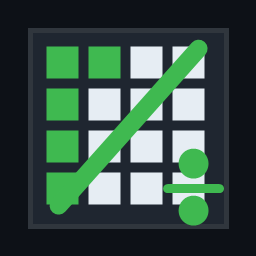
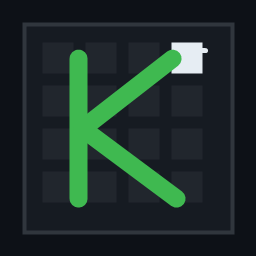
feat: add desktop undo find freeze workflows

diff --git a/src/KHZ.Sheet.Desktop/MainWindow.xaml b/src/KHZ.Sheet.Desktop/MainWindow.xaml
@@ -7,6 +7,7 @@
         MinWidth="1000"
         MinHeight="650"
         Icon="Assets/khz-sheet.ico"
+        PreviewKeyDown="MainWindow_PreviewKeyDown"
         WindowStartupLocation="CenterScreen">
     <Grid>
         <Grid.RowDefinitions>
@@ -69,6 +70,13 @@
                 <Button Content="Open CSV" Click="OpenCsv_Click"/>
                 <Button Content="Save CSV" Click="SaveCsv_Click"/>
                 <Button Content="Export XLSX" Click="ExportXlsx_Click"/>
+                <Separator Width="12" Opacity="0"/>
+                <Button Content="Undo" Click="Undo_Click" ToolTip="Ctrl+Z"/>
+                <Button Content="Redo" Click="Redo_Click" ToolTip="Ctrl+Y"/>
+                <Button Content="Freeze A" Click="FreezeFirstColumn_Click"/>
+                <Separator Width="12" Opacity="0"/>
+                <TextBox x:Name="FindBox" Width="170" Margin="0,0,6,0" ToolTip="Find in cell inputs · Ctrl+F"/>
+                <Button Content="Find Next" Click="FindNext_Click"/>
                 <Separator Width="12" Opacity="0"/>
                 <Button Content="Recalculate" Click="Recalculate_Click"/>
                 <Button Content="Verify Proof" Click="Verify_Click" Style="{StaticResource AccentButton}"/>

diff --git a/src/KHZ.Sheet.Desktop/MainWindow.xaml.cs b/src/KHZ.Sheet.Desktop/MainWindow.xaml.cs
@@ -218,6 +218,19 @@ public partial class MainWindow : Window
         }
     }
 
+    private void Undo_Click(object sender, RoutedEventArgs e) => UndoCurrentSheet();
+
+    private void Redo_Click(object sender, RoutedEventArgs e) => RedoCurrentSheet();
+
+    private void FreezeFirstColumn_Click(object sender, RoutedEventArgs e)
+    {
+        if (SheetGrid.Columns.Count == 0) return;
+        SheetGrid.FrozenColumnCount = SheetGrid.FrozenColumnCount == 0 ? 1 : 0;
+        SetStatus(SheetGrid.FrozenColumnCount == 0 ? "column A unfrozen" : "column A frozen");
+    }
+
+    private void FindNext_Click(object sender, RoutedEventArgs e) => FindNextInput();
+
     private void ApplyFormula_Click(object sender, RoutedEventArgs e)
     {
         CommitFormulaBar();
@@ -322,6 +335,35 @@ public partial class MainWindow : Window
             }));
     }
 
+    private void MainWindow_PreviewKeyDown(object sender, KeyEventArgs e)
+    {
+        if (Keyboard.Modifiers == ModifierKeys.Control && e.Key == Key.F)
+        {
+            e.Handled = true;
+            FindBox.Focus();
+            FindBox.SelectAll();
+            return;
+        }
+
+        if (Keyboard.FocusedElement is TextBox)
+        {
+            return;
+        }
+
+        if (Keyboard.Modifiers == ModifierKeys.Control && e.Key == Key.Z)
+        {
+            e.Handled = true;
+            UndoCurrentSheet();
+            return;
+        }
+
+        if (Keyboard.Modifiers == ModifierKeys.Control && e.Key == Key.Y)
+        {
+            e.Handled = true;
+            RedoCurrentSheet();
+        }
+    }
+
     private void SheetGrid_PreviewKeyDown(object sender, KeyEventArgs e)
     {
         if (Keyboard.Modifiers == ModifierKeys.Control && e.Key == Key.V)
@@ -422,6 +464,57 @@ public partial class MainWindow : Window
         RefreshEngineText();
         SheetGrid.Items.Refresh();
         UpdateFormulaBar();
+    }
+
+    private void UndoCurrentSheet()
+    {
+        WorksheetSession? sheet = CurrentSheet;
+        if (sheet is null) return;
+        sheet.Undo(out string message);
+        SetStatus(message);
+        SheetGrid.Items.Refresh();
+        UpdateFormulaBar();
+        RefreshEngineText();
+    }
+
+    private void RedoCurrentSheet()
+    {
+        WorksheetSession? sheet = CurrentSheet;
+        if (sheet is null) return;
+        sheet.Redo(out string message);
+        SetStatus(message);
+        SheetGrid.Items.Refresh();
+        UpdateFormulaBar();
+        RefreshEngineText();
+    }
+
+    private void FindNextInput()
+    {
+        WorksheetSession? sheet = CurrentSheet;
+        string query = FindBox.Text;
+        if (sheet is null || string.IsNullOrEmpty(query))
+        {
+            SetStatus("enter text to find");
+            return;
+        }
+
+        int startRow = -1;
+        int startColumn = -1;
+        TryCurrentCoordinate(out startRow, out startColumn);
+        if (!sheet.TryFindInput(query, startRow, startColumn, out int row, out int column))
+        {
+            SetStatus($"not found · {query}");
+            return;
+        }
+
+        DataRowView item = sheet.Grid.DefaultView[row];
+        SheetGrid.SelectedCells.Clear();
+        SheetGrid.CurrentCell = new DataGridCellInfo(item, SheetGrid.Columns[column]);
+        SheetGrid.SelectedCells.Add(SheetGrid.CurrentCell);
+        SheetGrid.ScrollIntoView(item, SheetGrid.Columns[column]);
+        NameBox.Text = CellName(row, column);
+        FormulaBox.Text = sheet.GetInput(row, column);
+        SetStatus($"found · {CellName(row, column)}");
     }
 
     private void SheetList_SelectionChanged(object sender, SelectionChangedEventArgs e)

diff --git a/src/KHZ.Sheet.Desktop/WorkbookSession.cs b/src/KHZ.Sheet.Desktop/WorkbookSession.cs
@@ -142,6 +142,19 @@ public sealed class WorksheetSession : IDisposable
 
     public bool CommitCell(int row, int column, string? input, out string message)
     {
+        string before = GetInput(row, column);
+        string after = input ?? string.Empty;
+        bool ok = CommitCellCore(row, column, after, out message);
+        if (ok && !string.Equals(before, after, StringComparison.Ordinal))
+        {
+            _undo.Push(new CellEdit(row, column, before, after));
+            _redo.Clear();
+        }
+        return ok;
+    }
+
+    private bool CommitCellCore(int row, int column, string raw, out string message)
+    {
         message = string.Empty;
 
         if (!InBounds(row, column))
@@ -150,7 +163,6 @@ public sealed class WorksheetSession : IDisposable
             return false;
         }
 
-        string raw = input ?? string.Empty;
         _inputs[Key(row, column)] = raw;
 
         if (!EngineAvailable)
@@ -205,6 +217,73 @@ public sealed class WorksheetSession : IDisposable
             ? EngineSummary
             : $"recalculated {evaluated:N0} · {EngineSummary}";
         return true;
+    }
+
+    public bool Undo(out string message)
+    {
+        if (_undo.Count == 0)
+        {
+            message = "nothing to undo";
+            return false;
+        }
+
+        CellEdit edit = _undo.Pop();
+        if (!CommitCellCore(edit.Row, edit.Column, edit.Before, out message))
+        {
+            _undo.Push(edit);
+            return false;
+        }
+
+        _redo.Push(edit);
+        message = $"undo · {ColumnName(edit.Column)}{edit.Row + 1}";
+        return true;
+    }
+
+    public bool Redo(out string message)
+    {
+        if (_redo.Count == 0)
+        {
+            message = "nothing to redo";
+            return false;
+        }
+
+        CellEdit edit = _redo.Pop();
+        if (!CommitCellCore(edit.Row, edit.Column, edit.After, out message))
+        {
+            _redo.Push(edit);
+            return false;
+        }
+
+        _undo.Push(edit);
+        message = $"redo · {ColumnName(edit.Column)}{edit.Row + 1}";
+        return true;
+    }
+
+    public bool TryFindInput(string query, int startRow, int startColumn, out int row, out int column)
+    {
+        row = -1;
+        column = -1;
+        if (string.IsNullOrEmpty(query)) return false;
+
+        int columns = Grid.Columns.Count;
+        int total = Grid.Rows.Count * columns;
+        int start = startRow >= 0 && startColumn >= 0
+            ? ((startRow * columns + startColumn + 1) % total)
+            : 0;
+
+        for (int offset = 0; offset < total; offset++)
+        {
+            int index = (start + offset) % total;
+            int r = index / columns;
+            int c = index % columns;
+            if (GetInput(r, c).Contains(query, StringComparison.OrdinalIgnoreCase))
+            {
+                row = r;
+                column = c;
+                return true;
+            }
+        }
+        return false;
     }
 
     public bool Recalculate(out string message)

diff --git a/tests/dotnet/KhzDesktopContracts/Program.cs b/tests/dotnet/KhzDesktopContracts/Program.cs
@@ -1,0 +1,24 @@
+using KHZ.Sheet.Desktop;
+
+static void Expect(bool condition, string label)
+{
+    if (!condition) throw new InvalidOperationException("FAIL " + label);
+    Console.WriteLine("PASS " + label);
+}
+
+using WorksheetSession sheet = new("Contract");
+Expect(sheet.EngineAvailable, "native engine available");
+Expect(sheet.CommitCell(0, 0, "41", out _), "commit A1=41");
+Expect(sheet.CommitCell(0, 0, "42", out _), "commit A1=42");
+Expect(sheet.GetInput(0, 0) == "42", "A1 current input");
+Expect(sheet.Undo(out _), "undo succeeds");
+Expect(sheet.GetInput(0, 0) == "41", "undo restores input");
+Expect(sheet.Redo(out _), "redo succeeds");
+Expect(sheet.GetInput(0, 0) == "42", "redo restores input");
+
+Expect(sheet.CommitCell(2, 3, "=SUM(A1:A2)", out _), "commit D3 formula");
+Expect(sheet.TryFindInput("sum", -1, -1, out int row, out int column), "find formula text");
+Expect(row == 2 && column == 3, "find returns D3");
+Expect(!sheet.TryFindInput("not-present", -1, -1, out _, out _), "missing query returns false");
+
+Console.WriteLine("failures=0");

diff --git a/FEATURE-GAP.md b/FEATURE-GAP.md
@@ -1,0 +1,34 @@
+# Spreadsheet feature gap
+
+This file is a parity map, not a compatibility claim. Targets were compared against current Microsoft Excel and Google Sheets help for common desktop/web spreadsheet workflows.
+
+## Verified or implemented in KHZ Sheet
+- Cell editing through the WPF grid and formula bar.
+- Multiple local worksheet tabs.
+- CSV open/save and bounded XLSX export.
+- Native recalculation and proof verification/copy.
+- Clipboard paste and delete/clear.
+- Single-cell semantic Undo/Redo through the normal native commit path.
+- Case-insensitive Find Next over stored cell inputs/formula source.
+- Toggle freeze of the first data column.
+
+## High-value gaps
+- XLSX open in the desktop: native reader exists, but no managed reader binding currently exposes it safely.
+- Find/Replace: Find Next exists; replacement UI and grouped Replace All history are absent.
+- Sort/filter: absent. A naive DataView sort would break visual-row to native-coordinate identity, so it must not be enabled without a coordinate-preserving view model.
+- Row/column insert, delete, hide, group and resize persistence.
+- Sheet rename/reorder/delete and workbook-level file format.
+- Formatting: number formats, fonts, fills, borders, alignment, wrapping and merge.
+- Data validation/drop-downs and conditional formatting.
+- Tables, charts, pivots, comments/notes and hyperlinks.
+- Broader formula families: logical, lookup/reference, text, date/time, statistical and array functions.
+- Print/page layout, import/export fidelity and general Excel workbook compatibility.
+- Autosave, version history, collaboration, protected ranges and sharing are not local-engine features today.
+- Complete keyboard/accessibility, high-contrast and Arabic/RTL workflow verification.
+
+## External feature references inspected
+- Microsoft Excel: Sort data in a range or table; Find or replace text and numbers; Excel functions by category.
+- Google Sheets: Sort & filter your data; Search and use find and replace; keyboard shortcuts; Sheets cheat sheet.
+
+## Design gate
+A feature is not marked implemented because a button exists. It must preserve native cell identity, build cleanly, and have an executable regression or interaction check appropriate to the behavior.

diff --git a/CHANGELOG.md b/CHANGELOG.md
@@ -5,6 +5,6 @@
 - Reject ambiguous ZIP local metadata, duplicate names, overlapping extents and unsupported flags; validate data descriptors; enforce archive/aggregate/ratio ceilings.
 - Isolate managed scratch IR with SafeHandle ownership; serialize ABI verification publication and translate malformed-library image failures.
 - Add native boundary/property tests, a development-only independent rational oracle and managed boundary regressions.
-- Add KHZ Sheet desktop branding, a proof-copy action, and optional ML-KEM-768 / ML-DSA-65 hybrid encrypted release packaging with local-only secret keys.
+- Add KHZ Sheet desktop branding, a proof-copy action, single-cell Undo/Redo, Find Next over stored inputs/formulas, first-column freeze, and optional ML-KEM-768 / ML-DSA-65 hybrid encrypted release packaging with local-only secret keys.
 Compatibility: ABI 96 and public layouts are unchanged. Some operations formerly returning ERR_OVERFLOW now succeed exactly. Archive acceptance is intentionally narrower; ceilings are compile-time configurable. Existing callers relying on ambiguous ZIPs must regenerate valid packages, not disable checks.
-No new formula functions, table/chart model, desktop workflow or localization subsystem was implemented. Managed lifetime/ABI corrections are present in the final reviewed working tree and their regressions pass. An earlier blocked write was not treated as proof of implementation; final status follows source inspection and executed tests.
+No new formula functions, table/chart model or localization subsystem was implemented. Desktop parity remains intentionally narrow; sort/filter, XLSX open, replacement workflows and richer workbook operations are still absent. Managed lifetime/ABI corrections are present in the reviewed tree and their regressions pass.

diff --git a/DESKTOP.md b/DESKTOP.md
@@ -1,4 +1,4 @@
 # Desktop boundary
 The existing WPF shell compiles for net8.0-windows and uses a bounded DataTable view over the native sheet. `WorkbookSession.cs` owns session integration; native semantics remain in C.
-No new undo/redo, transactional rectangular paste, unsaved-change workflow, atomic save, CSV safety boundary, asynchronous import, table UI or chart UI was implemented. This intervention adds an application icon/header mark and `Copy Proof`, which re-verifies the current proof chain before putting the proof hex on the Windows clipboard.
+The desktop now has single-cell semantic Undo/Redo through the ordinary commit path, case-insensitive Find Next over stored inputs/formula source, a first-column freeze toggle, an application icon/header mark, and `Copy Proof`, which re-verifies the current proof chain before putting the proof hex on the Windows clipboard. Transactional rectangular paste, grouped Replace All history, unsaved-change workflow, atomic save, CSV safety hardening, asynchronous import, table UI and chart UI remain absent.
 The final Windows desktop build exits successfully with zero C# warnings/errors, and the executable remains running during a three-second startup smoke test before an orderly close. Button-level UI automation was not executed. End-user reliability, accessibility, scroll responsiveness and Arabic/RTL behavior remain separate unverified layers.

diff --git a/README.md b/README.md
@@ -10,7 +10,7 @@ Local-first spreadsheet engine with a C11 native core, exact representable ratio
 | Integrity | ABI-96 cell proofs and optional SQLite metadata ledger | existing tamper tests; not encryption, identity authentication or backup |
 | XLSX | supported native reader/writer subset; bounded ZIP validation | synthetic malformed/round-trip tests; not general Excel compatibility |
 | Managed | P/Invoke and OPC utilities | lifetime/concurrency/malformed-image regressions pass; see ABI.md |
-| Desktop | WPF shell with app icon and proof-copy action | build and focused interaction evidence; see DESKTOP.md |
+| Desktop | WPF shell with branding, proof-copy, Undo/Redo, Find Next and first-column freeze | clean build plus managed desktop contract test; see DESKTOP.md and FEATURE-GAP.md |
 | Tables/charts/localization | not implemented as requested subsystems | not verified |
 
 ## Build and test
